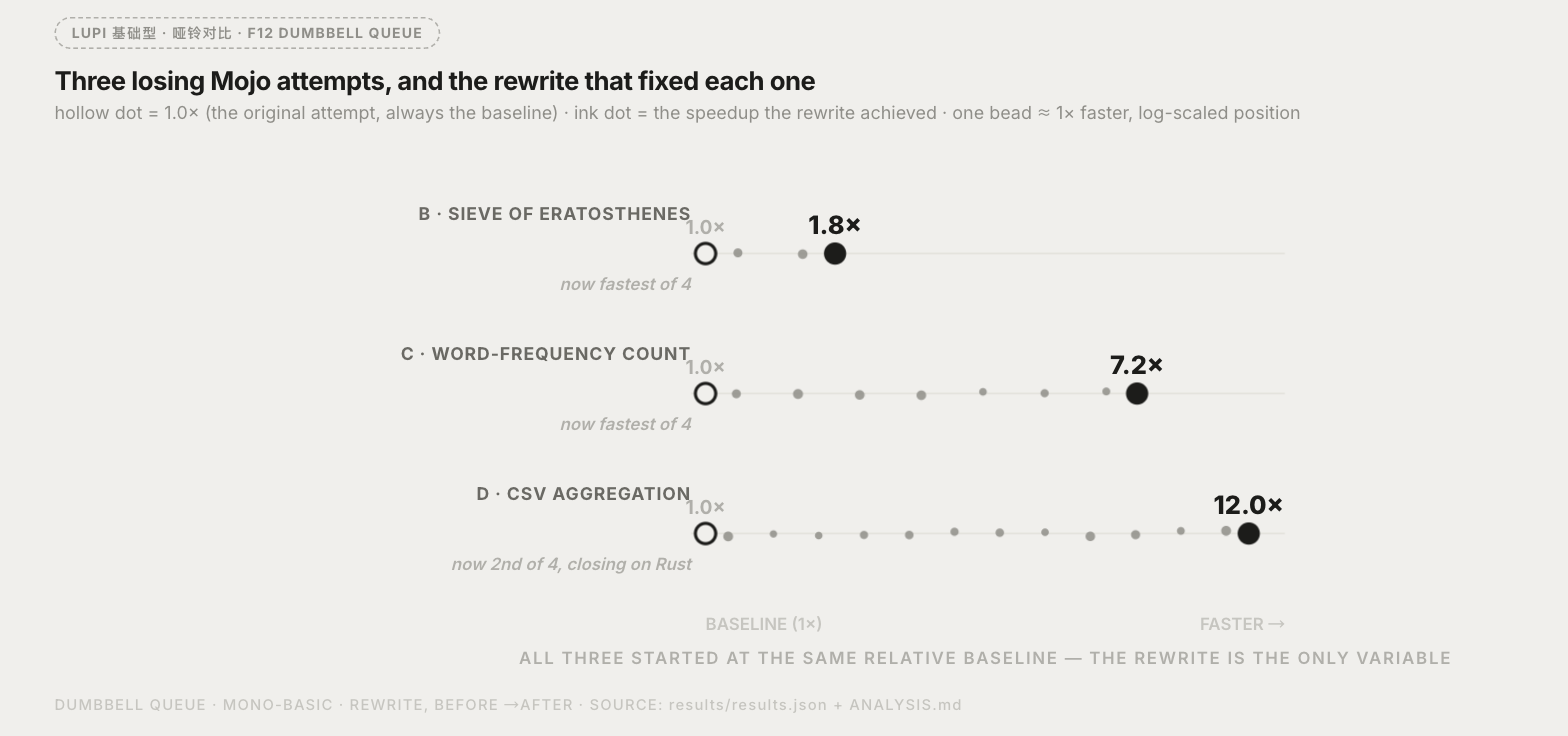
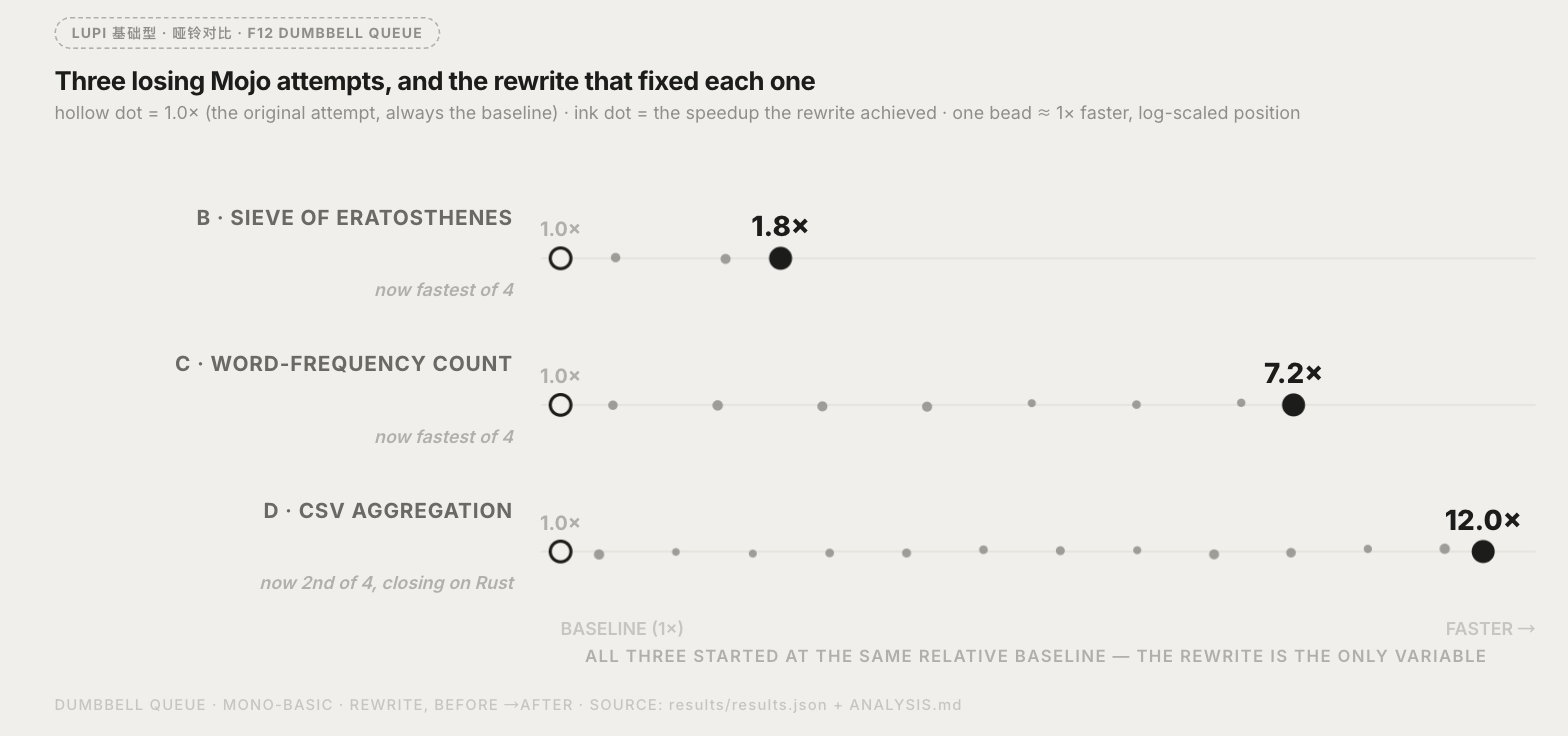
Fix cramped typography in the Dumbbell Queue chart
Root cause wasn't the font sizes themselves: the card is full-width (.wide,
~1034px) but the SVG's viewBox (400x220) was much narrower than the card's
real aspect ratio, so preserveAspectRatio letterboxed it down to ~60% of
the available width before any text even rendered. Widened the viewBox to
760x268 to match the card's actual proportions, then used the reclaimed
space for genuine gaps (row label to baseline, row to row, chart to
footnote) and larger type across the board.

Claude-Session: https://claude.ai/code/session_01QDpFxeAGxk1rVkmDj4ry16

diff --git a/results/lieflat/charts.html b/results/lieflat/charts.html
@@ -43,7 +43,7 @@
     <span class="badge">LUPI 基础型 · 哑铃对比 · F12 DUMBBELL QUEUE</span>
     <h2>Three losing Mojo attempts, and the rewrite that fixed each one</h2>
     <div class="sub">hollow dot = 1.0× (the original attempt, always the baseline) · ink dot = the speedup the rewrite achieved · one bead ≈ 1× faster, log-scaled position</div>
-    <svg id="dumbbell" viewBox="0 0 400 220" preserveAspectRatio="xMidYMid meet"></svg>
+    <svg id="dumbbell" viewBox="0 0 760 268" preserveAspectRatio="xMidYMid meet"></svg>
     <div class="src">DUMBBELL QUEUE · MONO-BASIC · REWRITE, BEFORE →AFTER · SOURCE: results/results.json + ANALYSIS.md</div>
   </div>
 
@@ -93,34 +93,37 @@ const D=[
 ];
 const MAXV=13;
 obsReveal('dumbbell',s=>{
-  const y0=i=>44+i*58,X0=132,X1=364,mapX=v=>X0+Math.log(v)/Math.log(MAXV)*(X1-X0);
+  // wide card, so the viewBox (760x240) matches its real aspect ratio instead
+  // of a narrower 400-unit box letterboxing inside it — that mismatch was
+  // the actual cause of the cramped type, not the font sizes themselves.
+  const y0=i=>56+i*74,X0=224,X1=704,mapX=v=>X0+Math.log(v)/Math.log(MAXV)*(X1-X0);
   D.forEach(([name,after,beads,outcome],i)=>{
     const y=y0(i),xa=mapX(1.0),xb=mapX(after);
-    txt(s,{x:126,y:y-14,'font-size':7.3,'font-weight':700,fill:'#6A6963','text-anchor':'end',
-      'letter-spacing':'.05em',class:'fade',style:`animation-delay:${i*.08}s`},name);
-    txt(s,{x:126,y:y+15,'font-size':7,'font-weight':600,fill:'#B0AFA9','text-anchor':'end',
+    txt(s,{x:200,y:y-17,'font-size':10.5,'font-weight':700,fill:'#6A6963','text-anchor':'end',
+      'letter-spacing':'.04em',class:'fade',style:`animation-delay:${i*.08}s`},name);
+    txt(s,{x:200,y:y+19,'font-size':9,'font-weight':600,fill:'#B0AFA9','text-anchor':'end',
       'font-style':'italic',class:'fade',style:`animation-delay:${.2+i*.08}s`},outcome);
-    el(s,'line',{x1:X0-6,y1:y,x2:X1+8,y2:y,stroke:'#E3E2DB','stroke-width':.7,
+    el(s,'line',{x1:X0-10,y1:y,x2:X1+12,y2:y,stroke:'#E3E2DB','stroke-width':.9,
       class:'fade',style:`animation-delay:${i*.08}s`});
     for(let k=0;k<beads;k++){
-      const t=(k+.5)/beads,x=xa+t*(xb-xa),yy=y+(rnd(k+1,i+3)-.5)*2.6;
-      el(s,'circle',{cx:x,cy:yy,r:1.4+rnd(k+2,i+4)*.8,fill:'#8F8E88',opacity:.85,
+      const t=(k+.5)/beads,x=xa+t*(xb-xa),yy=y+(rnd(k+1,i+3)-.5)*3.2;
+      el(s,'circle',{cx:x,cy:yy,r:1.8+rnd(k+2,i+4)*1,fill:'#8F8E88',opacity:.85,
         class:'pop',style:`animation-delay:${.3+i*.08+k*.03}s`});
     }
-    el(s,'circle',{cx:xa,cy:y,r:4.2,fill:PAPER,stroke:INK,'stroke-width':1.3,
+    el(s,'circle',{cx:xa,cy:y,r:5.2,fill:PAPER,stroke:INK,'stroke-width':1.6,
       class:'pop',style:`animation-delay:${.2+i*.08}s`});
-    const afterDot=el(s,'circle',{cx:xb,cy:y,r:4.6,fill:INK,
+    const afterDot=el(s,'circle',{cx:xb,cy:y,r:5.8,fill:INK,
       class:'pop',style:`animation-delay:${.6+i*.08}s`});
     tip(afterDot,`${name} — 1.0x baseline -> ${after}x faster after the rewrite`);
-    txt(s,{x:xa,y:y-8,'font-size':8,'font-weight':700,fill:'#B0AFA9','text-anchor':'middle',
+    txt(s,{x:xa,y:y-11,'font-size':10,'font-weight':700,fill:'#B0AFA9','text-anchor':'middle',
       class:'fade',style:`animation-delay:${.3+i*.08}s`},'1.0×');
-    txt(s,{x:xb,y:y-8,'font-size':10.5,'font-weight':800,fill:INK,'text-anchor':'middle',
+    txt(s,{x:xb,y:y-11,'font-size':14,'font-weight':800,fill:INK,'text-anchor':'middle',
       class:'fade',style:`animation-delay:${.7+i*.08}s`},after.toFixed(1)+'×');
   });
-  txt(s,{x:X0,y:200,'font-size':7,'font-weight':600,fill:'#C6C5BF'},'BASELINE (1×)');
-  txt(s,{x:X1+8,y:200,'font-size':7,'font-weight':600,fill:'#C6C5BF','text-anchor':'end'},'FASTER →');
-  txt(s,{x:248,y:214,'font-size':7,'font-weight':600,fill:'#B0AFA9','text-anchor':'middle',
-    'letter-spacing':'.10em'},'ALL THREE STARTED AT THE SAME RELATIVE BASELINE — THE REWRITE IS THE ONLY VARIABLE');
+  txt(s,{x:X0,y:246,'font-size':9,'font-weight':600,fill:'#C6C5BF'},'BASELINE (1×)');
+  txt(s,{x:X1+12,y:246,'font-size':9,'font-weight':600,fill:'#C6C5BF','text-anchor':'end'},'FASTER →');
+  txt(s,{x:464,y:260,'font-size':8.5,'font-weight':600,fill:'#B0AFA9','text-anchor':'middle',
+    'letter-spacing':'.08em'},'ALL THREE STARTED AT THE SAME RELATIVE BASELINE — THE REWRITE IS THE ONLY VARIABLE');
 });
 })();
 
